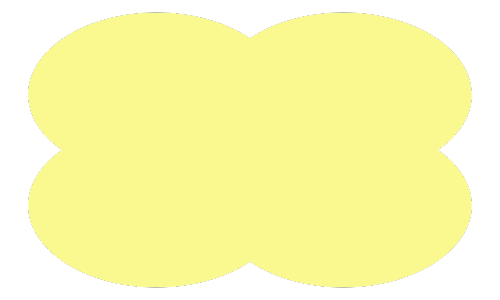
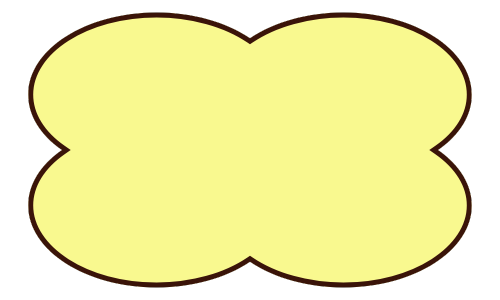
results formatting

Changed region(s): [[0.03, 0.03, 0.96, 0.81], [0.09, 0.81, 0.54, 0.96], [0.54, 0.75, 0.93, 0.96]]

diff --git a/public/results.html b/public/results.html
@@ -25,7 +25,7 @@
         <h2 class="email_submission">Your wellness healing style is</h2>
         <h3 class="healing-style-title"></h3>
         <p class="healing-style-content"></p>
-        <h3 class="button" onclick="toggleCollapse()">Read more
+        <h3 class="button" onclick="toggleCollapse()">click here to read more
           <svg xmlns="http://www.w3.org/2000/svg" width="36" height="36" viewBox="0 0 24 24">
             <path d="M12 13.172l-4.95-4.95-1.414 1.414L12 16l6.364-6.364-1.414-1.414z"/>
             <path d="M12 19.172l-4.95-4.95-1.414 1.414L12 22l6.364-6.364-1.414-1.414z"/>
@@ -33,7 +33,7 @@
         </h3>
         <div id="content" class="read-more hidden">
         </div>
-          <h3 id="fom" class="button fom hidden" onclick="toggleCollapse1()">Find out more
+          <h3 id="fom" class="button fom hidden" onclick="toggleCollapse1()">click here to find out more
             <svg xmlns="http://www.w3.org/2000/svg" width="36" height="36" viewBox="0 0 24 24">
               <path d="M12 13.172l-4.95-4.95-1.414 1.414L12 16l6.364-6.364-1.414-1.414z"/>
               <path d="M12 19.172l-4.95-4.95-1.414 1.414L12 22l6.364-6.364-1.414-1.414z"/>

diff --git a/public/results_array.js b/public/results_array.js
@@ -115,7 +115,7 @@ let readMoreObj = {
 
 let findOutMoreObj = {
     "a": `<p>
-    <span>TINAHs recommendations for starting your mental wellbeing healing journey:</span></p>
+    <span class="yellow">TINAHs recommendations for starting your mental wellbeing healing journey:</span></p>
     <p>A good place to start is by practicing self-reflection. Journaling can help you identify your thoughts and feelings. Below we’ve given you a few journal prompts for FREE, so grab a notebook and start writing down some of your thoughts.
 </p>
 <p>

diff --git a/public/styles/results.css b/public/styles/results.css
@@ -42,6 +42,7 @@ span.journal {
     text-align: center;
     width: 90%;
     font-size: 2.75rem;
+    color: #f9f98f;
   }
 
 
@@ -179,7 +180,9 @@ span.journal {
 }
 
 .break-line {
-    margin-top: 4rem;
+    margin-top: 2rem;
+    margin-bottom: 2rem;
+    color: #f9f98f;
 }
 
 .read-more .heading {
@@ -200,6 +203,9 @@ span.journal {
   color: #f9f98f;
 }
 
+span.yellow {
+  color: #f9f98f;
+}
 
 
 /*.find-out-more ul {
